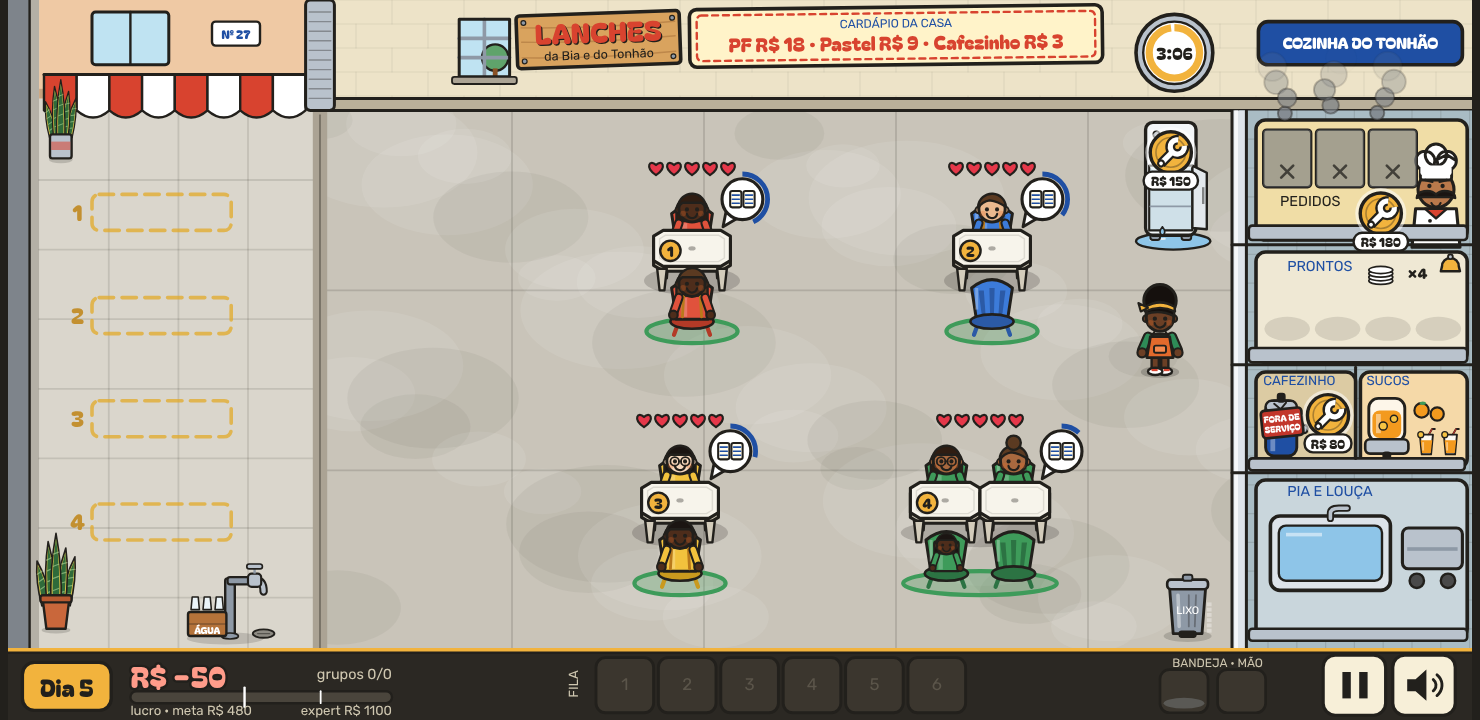
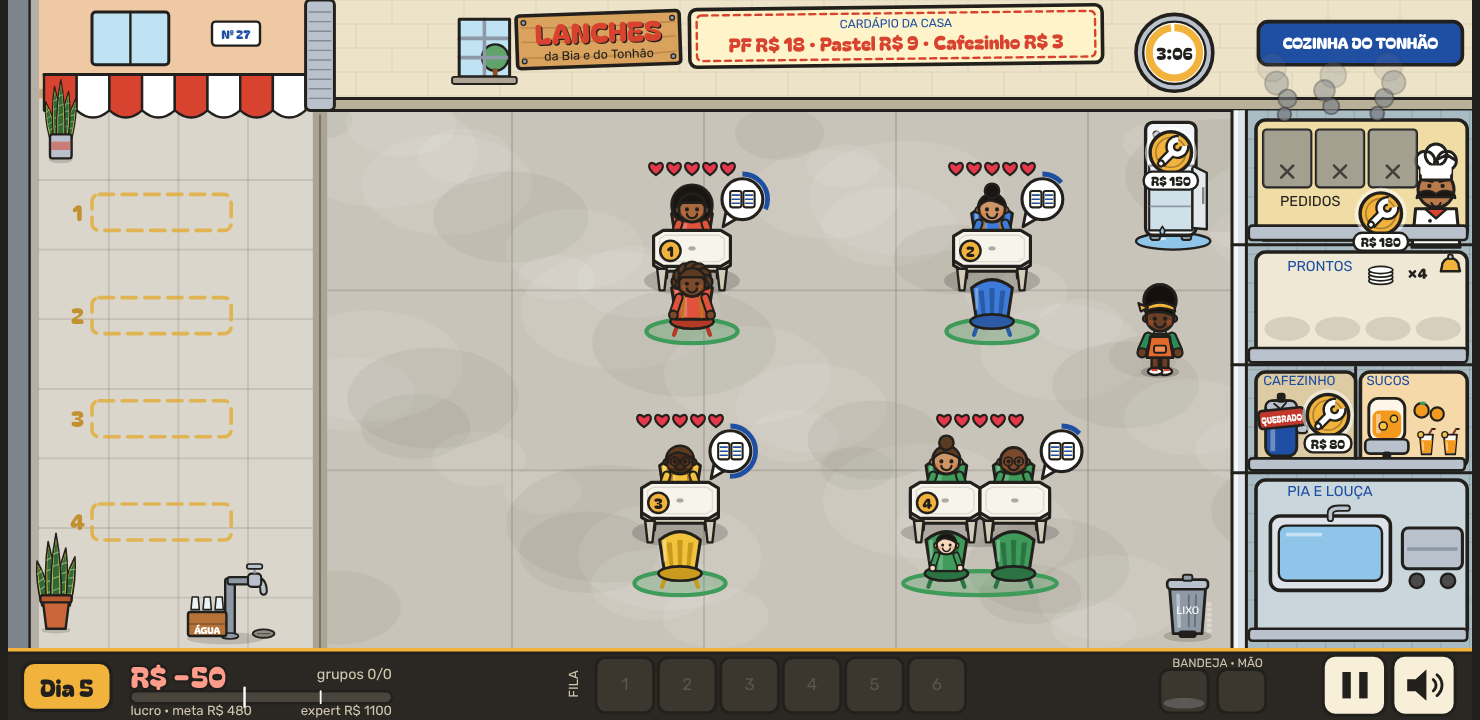
v8: placa "QUEBRADO" na cafeteira (termo mais comum no Brasil); regra no CLAUDE.md
Claude-Session: https://claude.ai/code/session_01C5DUCZrKpbKr1X7ZNHwUGD

diff --git a/lanchonete.html b/lanchonete.html
@@ -3446,12 +3446,12 @@ function drawTrash(ctx,on,t,g){
   }
   if (on){ ctx.save(); const a = 0.55 + 0.4*Math.sin(t*8); ctx.strokeStyle = 'rgba(242,179,61,' + a + ')'; ctx.lineWidth = 5; const r = STATIONS.trash.rect; rr(ctx,r.x,r.y,r.w,r.h,8); ctx.stroke(); ctx.restore(); }
 }
-/* placa pendurada "FORA DE SERVIÇO" (v8), no aparelho parado: cordinha e etiqueta vermelha meio torta */
+/* placa pendurada "QUEBRADO" (v8), no aparelho parado: cordinha e etiqueta vermelha meio torta */
 function drawPlacaParada(ctx,x,y){
   ctx.save(); ctx.translate(x,y); ctx.rotate(-0.1);
   ctx.strokeStyle = PAL.tinta; ctx.lineWidth = 1.6; ctx.beginPath(); ctx.moveTo(-5,-9); ctx.lineTo(0,-4); ctx.lineTo(5,-9); ctx.stroke();
-  rr(ctx,-17,-4,34,23,3); fs(ctx,PAL.perigo,2.2);
-  txt(ctx,'FORA DE',0,3.5,7.5,'#fff','center',FD,0,30); txt(ctx,'SERVIÇO',0,12,7.5,'#fff','center',FD,0,30);
+  rr(ctx,-19,-4,38,15,3); fs(ctx,PAL.perigo,2.2);
+  txt(ctx,'QUEBRADO',0,4,8,'#fff','center',FD,0,34);
   ctx.restore();
 }
 /* fumaça cinza do fogão quebrado: bolinhas que sobem e somem (paradas com movimento reduzido) */

diff --git a/src/21-cenario.js b/src/21-cenario.js
@@ -386,12 +386,12 @@ function drawTrash(ctx,on,t,g){
   }
   if (on){ ctx.save(); const a = 0.55 + 0.4*Math.sin(t*8); ctx.strokeStyle = 'rgba(242,179,61,' + a + ')'; ctx.lineWidth = 5; const r = STATIONS.trash.rect; rr(ctx,r.x,r.y,r.w,r.h,8); ctx.stroke(); ctx.restore(); }
 }
-/* placa pendurada "FORA DE SERVIÇO" (v8), no aparelho parado: cordinha e etiqueta vermelha meio torta */
+/* placa pendurada "QUEBRADO" (v8), no aparelho parado: cordinha e etiqueta vermelha meio torta */
 function drawPlacaParada(ctx,x,y){
   ctx.save(); ctx.translate(x,y); ctx.rotate(-0.1);
   ctx.strokeStyle = PAL.tinta; ctx.lineWidth = 1.6; ctx.beginPath(); ctx.moveTo(-5,-9); ctx.lineTo(0,-4); ctx.lineTo(5,-9); ctx.stroke();
-  rr(ctx,-17,-4,34,23,3); fs(ctx,PAL.perigo,2.2);
-  txt(ctx,'FORA DE',0,3.5,7.5,'#fff','center',FD,0,30); txt(ctx,'SERVIÇO',0,12,7.5,'#fff','center',FD,0,30);
+  rr(ctx,-19,-4,38,15,3); fs(ctx,PAL.perigo,2.2);
+  txt(ctx,'QUEBRADO',0,4,8,'#fff','center',FD,0,34);
   ctx.restore();
 }
 /* fumaça cinza do fogão quebrado: bolinhas que sobem e somem (paradas com movimento reduzido) */

diff --git a/CLAUDE.md b/CLAUDE.md
@@ -7,6 +7,7 @@ Jogo de navegador de gerenciamento de restaurante, em um único arquivo HTML com
 - **Código em partes, publicado em arquivo único:** edite só em `src/` (veja abaixo); `python3 montar.py` junta as partes em `lanchonete.html`, que tem HTML, CSS e JS inline e é o que se publica (o único recurso externo é o Google Fonts). Nunca edite `lanchonete.html` à mão: ele é gerado, mas fica no git (artifact, app e testes usam ele). Antes de publicar ou fazer commit, monte (`tests/run_all.sh` já monta).
 - **Sem invólucro:** o arquivo montado não tem `<!doctype>`, `<html>`, `<head>` nem `<body>` (o publicador envolve) e começa com `<title>`.
 - **Nome fixo:** o nome do arquivo não muda. Versões antigas vão para `versoes/vN-fonte.html` (exato) e `versoes/vN.html` (com a 1ª linha de `versoes/v1.html` como invólucro).
+- **Palavras do dia a dia:** na interface, prefira os termos mais comuns no Brasil (ex.: "QUEBRADO", e não "FORA DE SERVIÇO").
 - **Diversidade e movimento:** clientes diversos, sem estereótipos; respeitar `prefers-reduced-motion`.
 - **Código:** a lógica (`Game.update`) fica separada do desenho (`render`); `window.__game` e `window.__lcc` ficam expostos para os testes.
 
